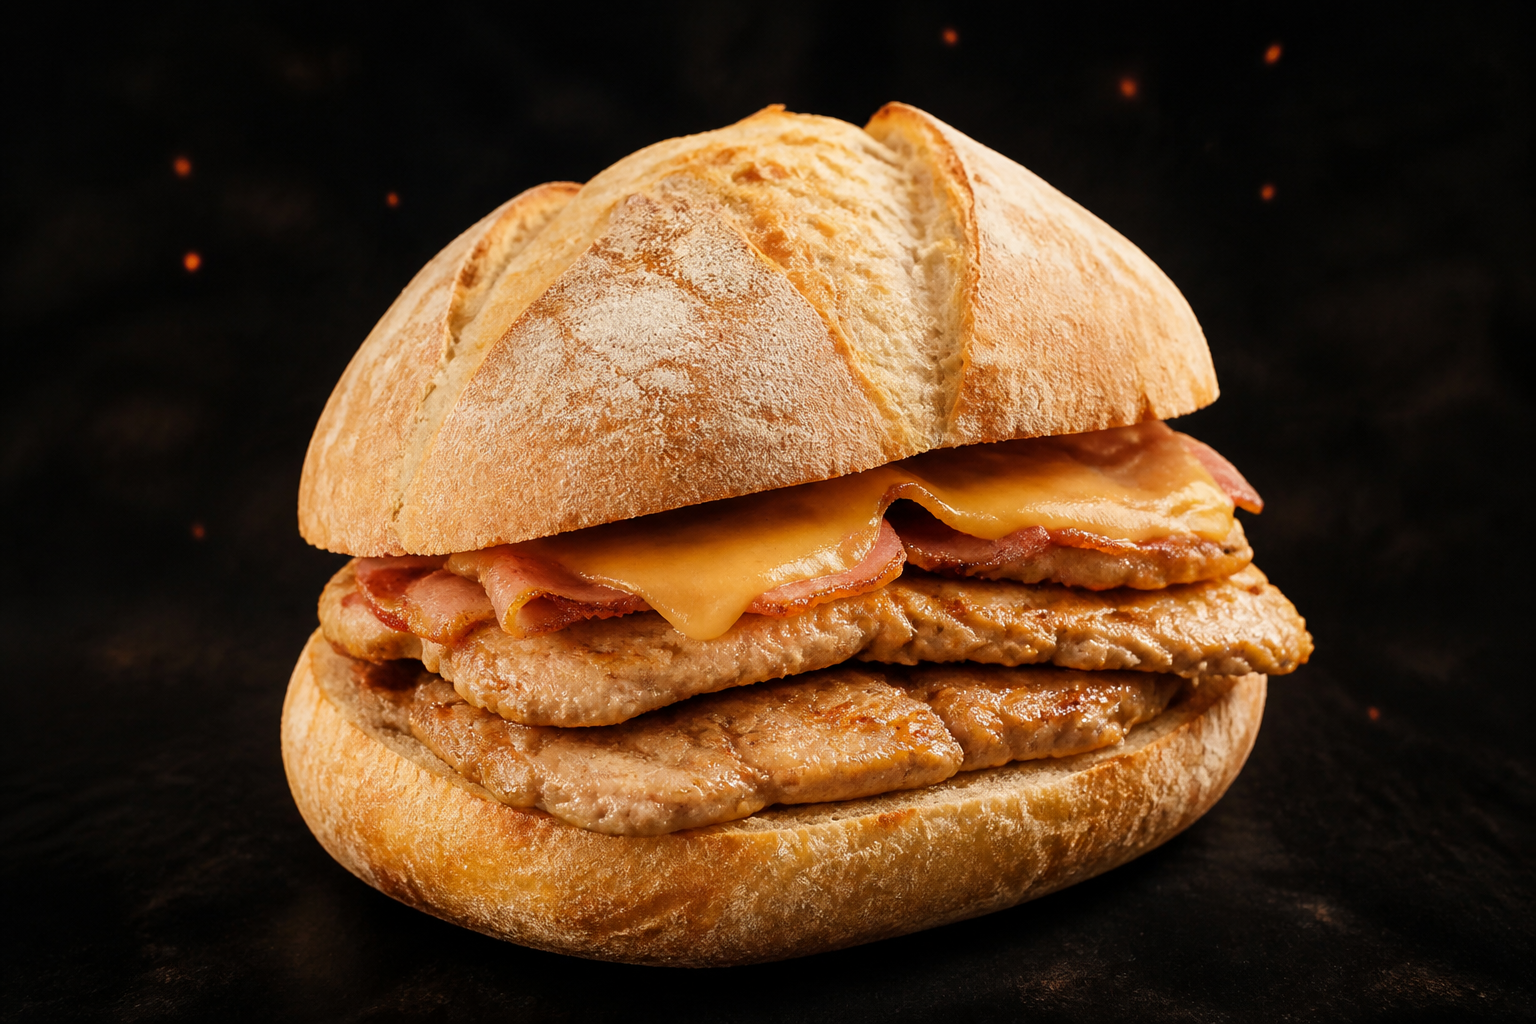
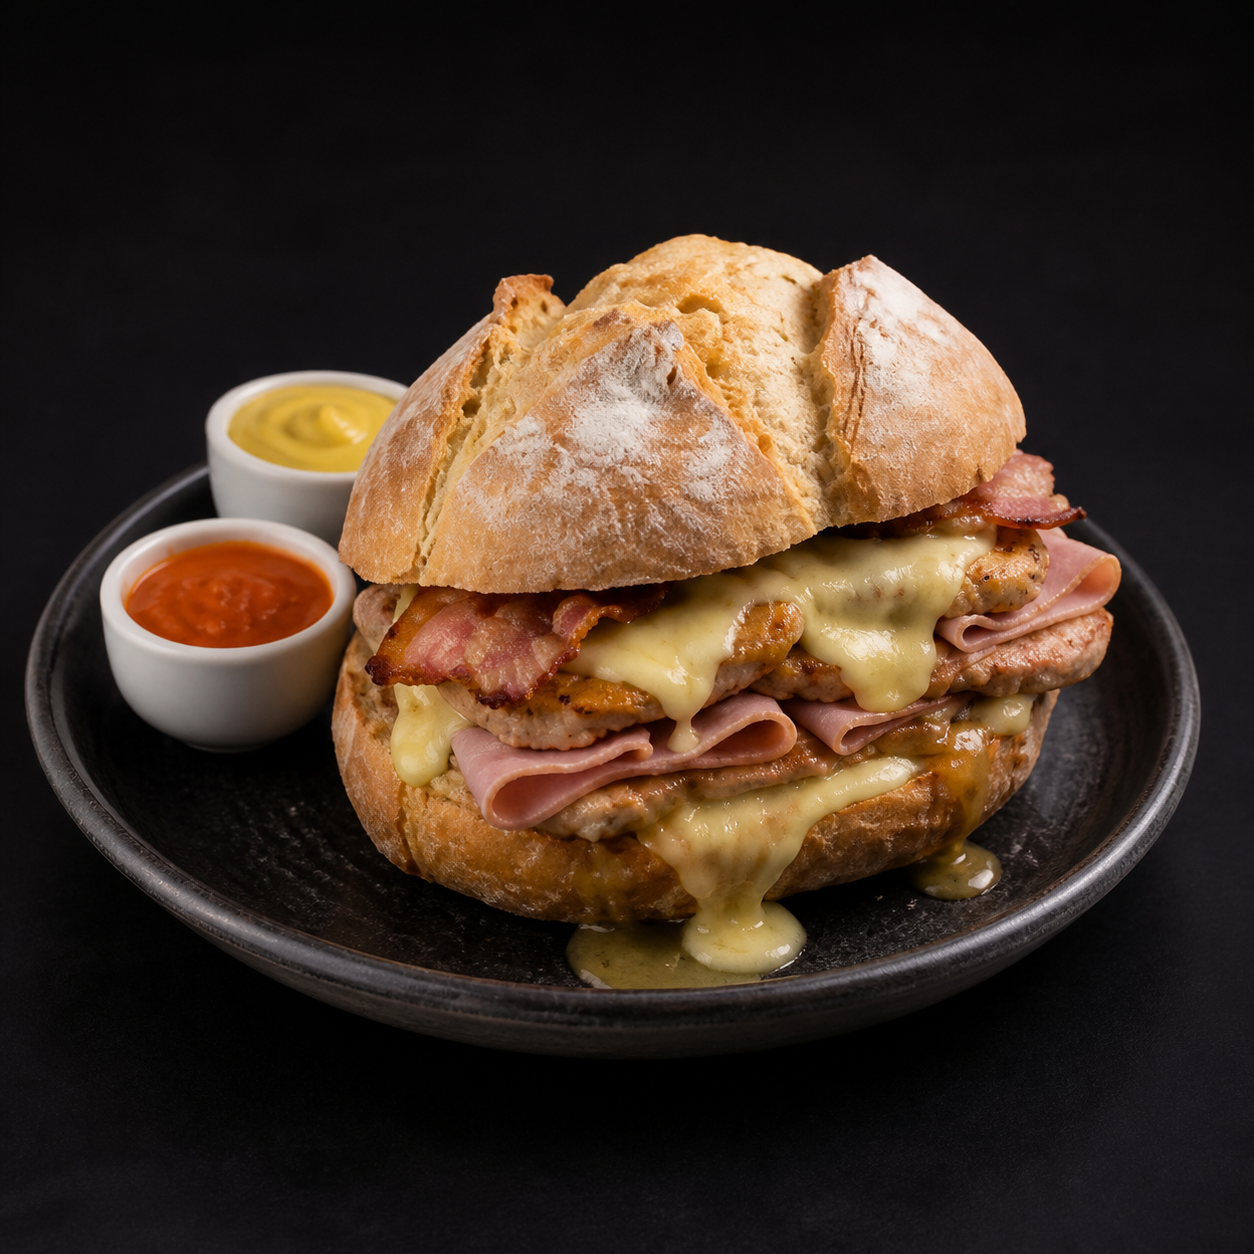
Melhora imagens das bifanas e corrige preço

diff --git a/app/page.tsx b/app/page.tsx
@@ -29,7 +29,7 @@ const menu: Record<string, Item[]> = {
   "Bifanas": [
     { name: "Simples", price: "5,50 €", description: "2 bifes de bifana no pão. Com bebida." },
     { name: "Especial", price: "8,50 €", description: "2 bifes de bifana no pão, fiambre, queijo e bacon. Com bebida." },
-    { name: "Super", price: "10,00 €", description: "Bifana Super. Com bebida e batata." },
+    { name: "Super", price: "12,00 €", description: "2 bifes de bifana no pão, 2 ovos, fiambre, queijo, bacon e molho da casa. Com bebida e batata." },
   ],
   "Porções & batatas": [
     { name: "Simples", price: "3,50 €", description: "Porção de batata frita." },
